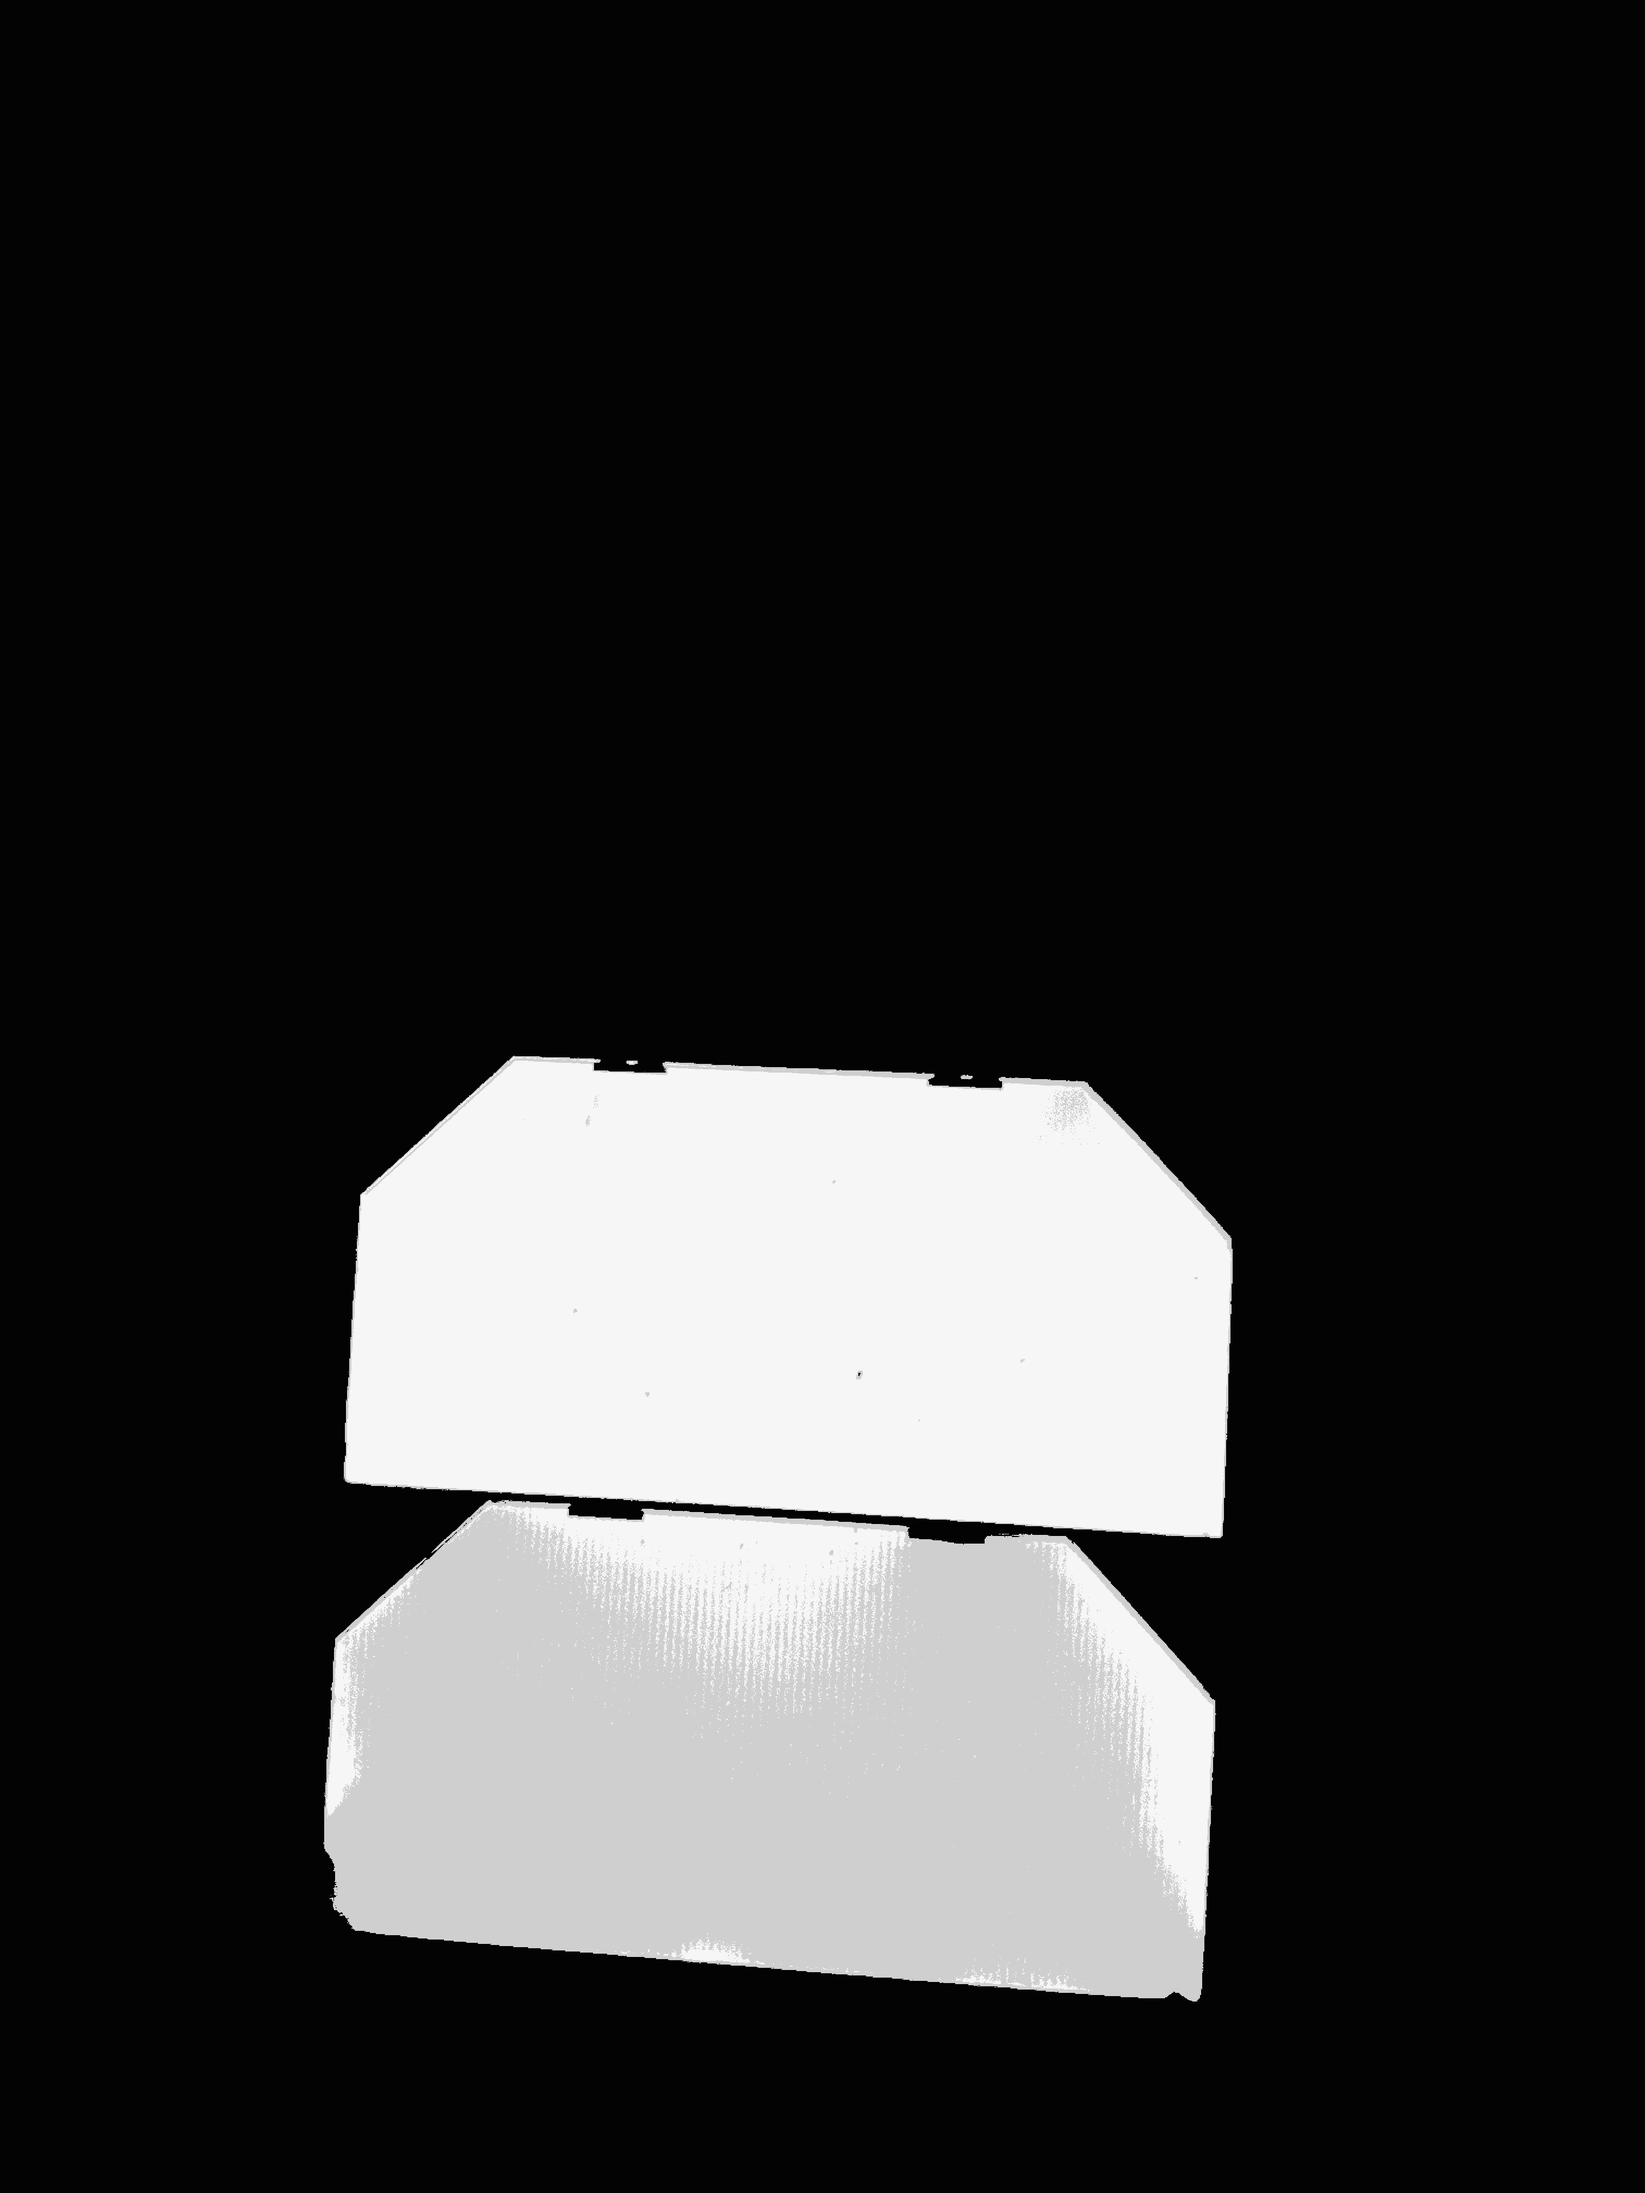
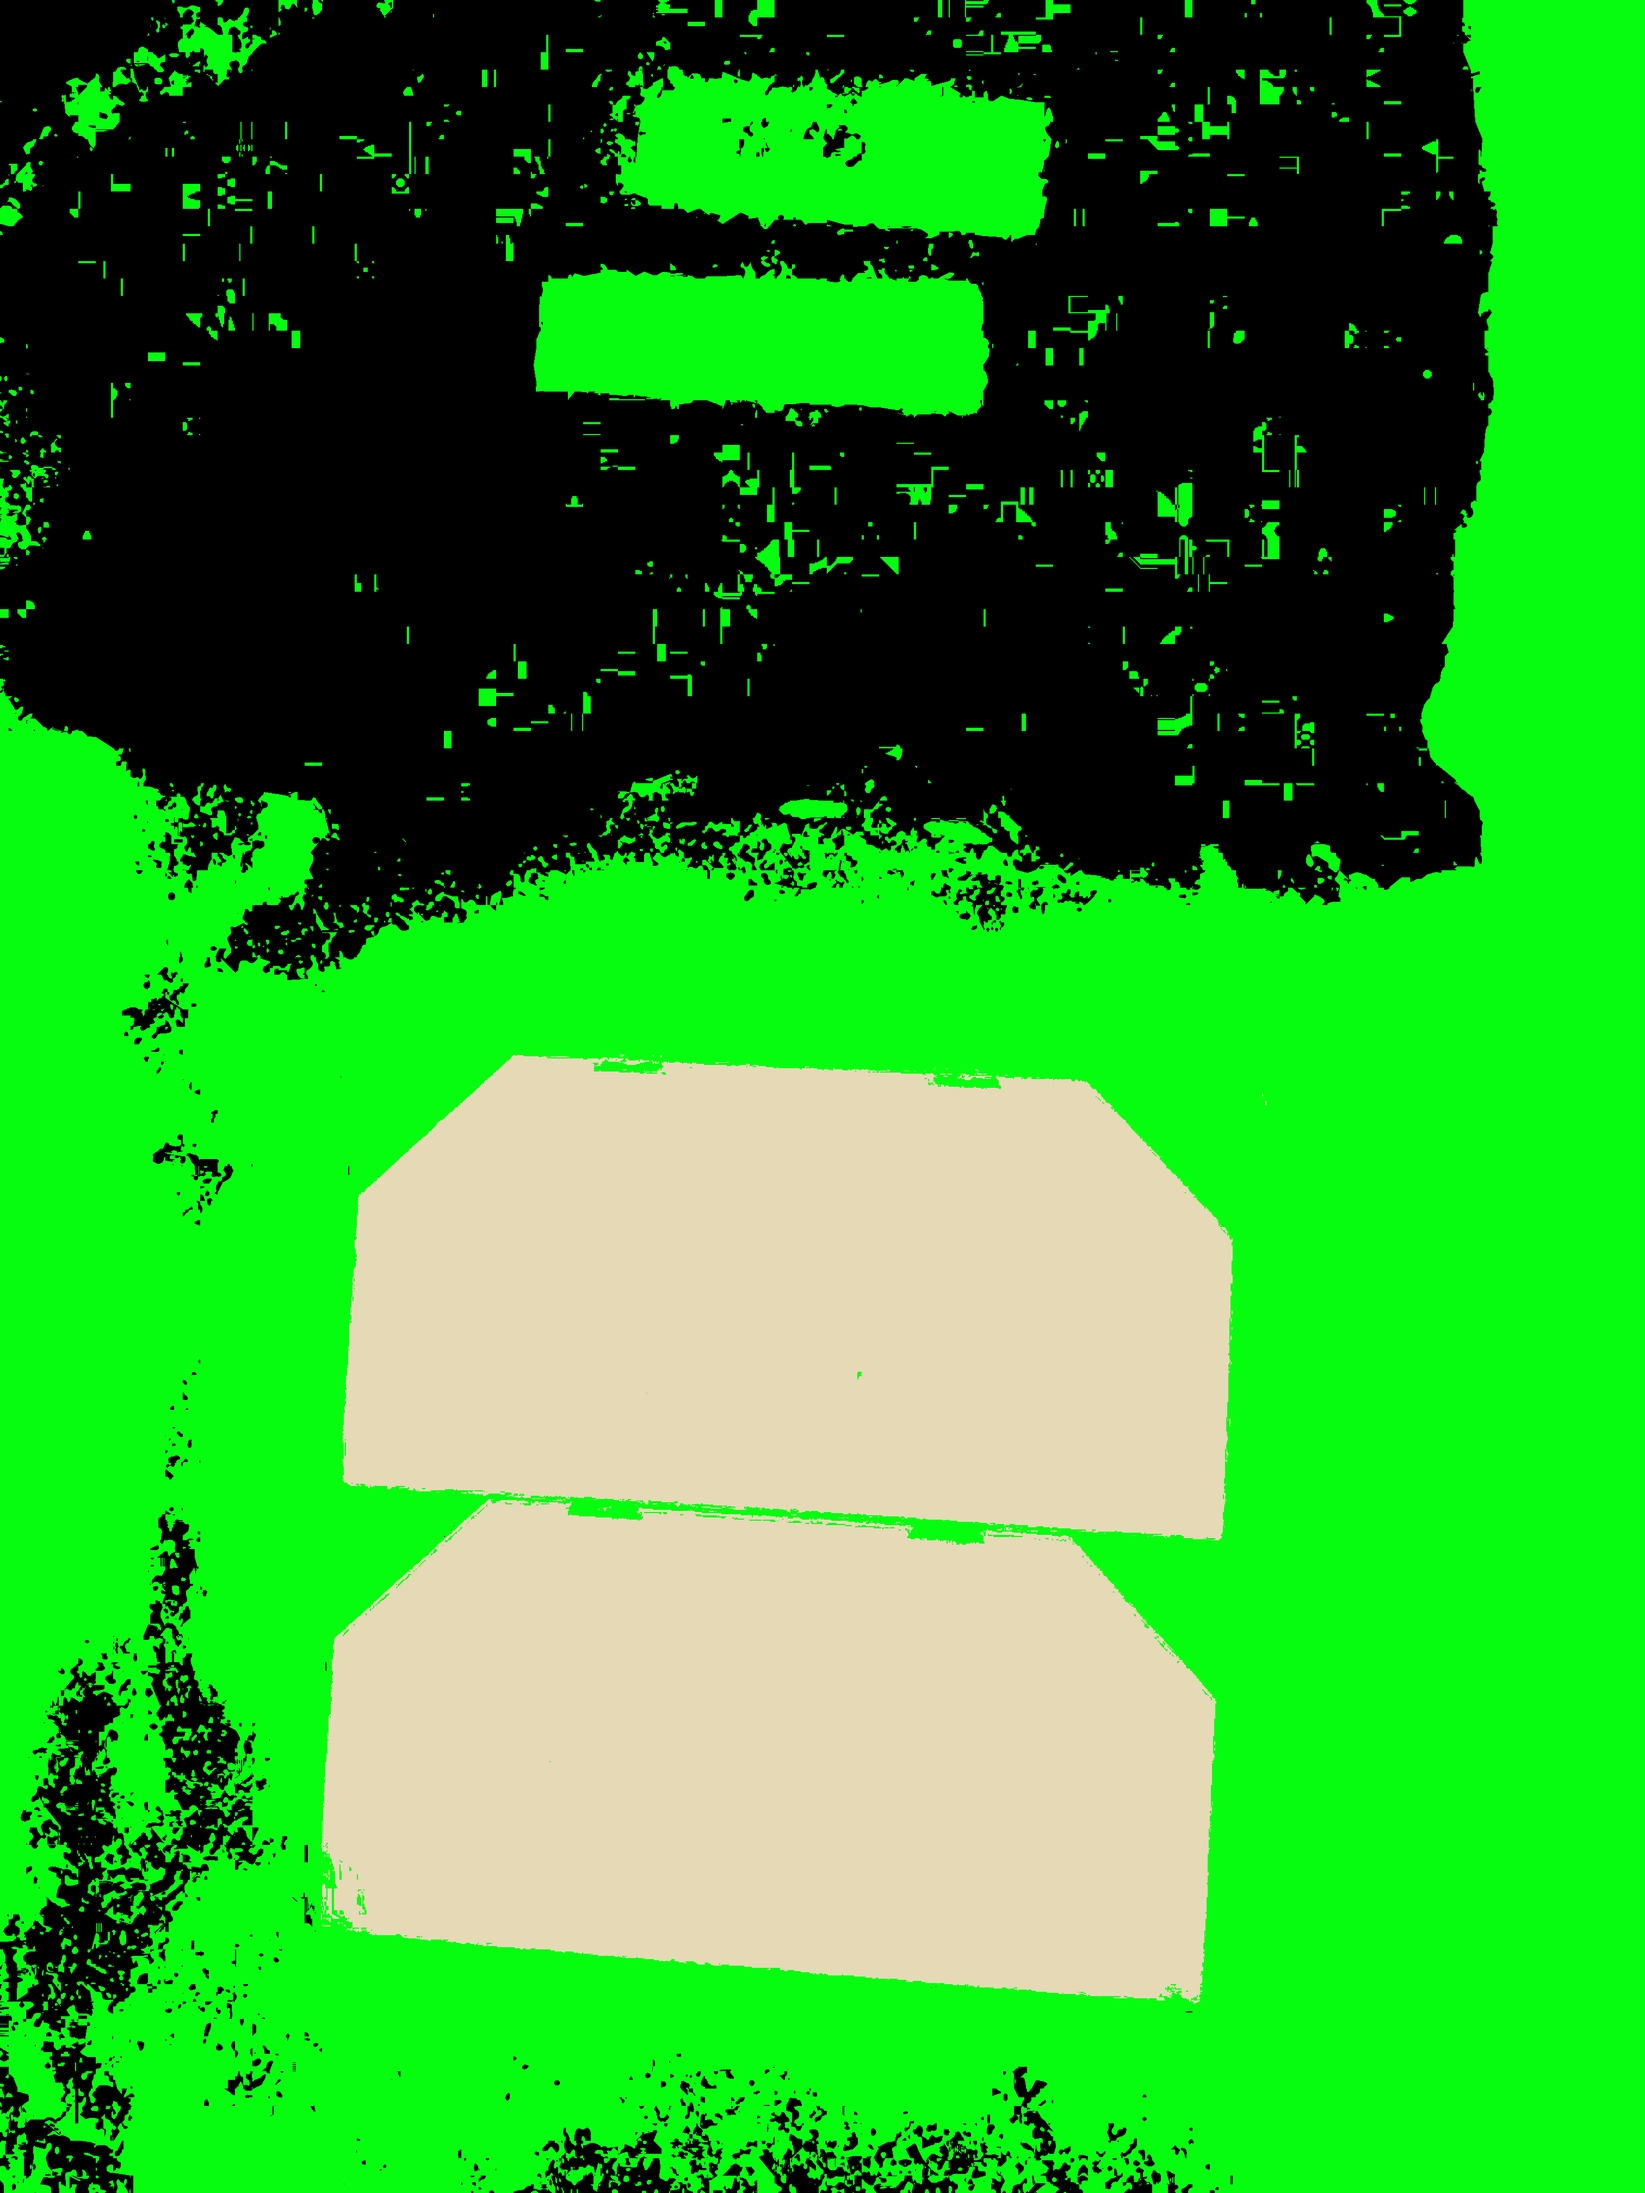
Use different images for 3k means, sp4 doesnt segment fully
Maybe find a better img for sp4 or tweak the k_means crit, alg.

diff --git a/tests/test_kmeans.py b/tests/test_kmeans.py
@@ -78,6 +78,42 @@ def test_twokmeans4():
 
     calc.k_means(out_dir, select=1)
 
+def test_twokmeans5():
+    k = 2
+    img_dir = Path.cwd() / "data" / "processed" / "sp2" / "IMG_6599.png"
+    out_dir = Path.cwd() / "data" / "output" / "k_means"
+    img = ELMImage(img_dir)
+    calc = k_means_calc(k, img)
+
+    calc.k_means(out_dir, select=1)
+
+def test_twokmeans6():
+    k = 2
+    img_dir = Path.cwd() / "data" / "processed" / "sp1" / "IMG_6596.png"
+    out_dir = Path.cwd() / "data" / "output" / "k_means"
+    img = ELMImage(img_dir)
+    calc = k_means_calc(k, img)
+
+    calc.k_means(out_dir, select=1)
+
+def test_twokmeans7():
+    k = 2
+    img_dir = Path.cwd() / "data" / "processed" / "sp3" / "IMG_6626.png"
+    out_dir = Path.cwd() / "data" / "output" / "k_means"
+    img = ELMImage(img_dir)
+    calc = k_means_calc(k, img)
+
+    calc.k_means(out_dir, select=1)
+
+def test_twokmeans8():
+    k = 2
+    img_dir = Path.cwd() / "data" / "processed" / "sp4" / "IMG_6639.png"
+    out_dir = Path.cwd() / "data" / "output" / "k_means"
+    img = ELMImage(img_dir)
+    calc = k_means_calc(k, img)
+
+    calc.k_means(out_dir, select=1)
+
 def test_threekmeans1():
     k = 3
     img_dir = Path.cwd() / "data" / "processed" / "sp1" / "IMG_6613.png"
@@ -95,6 +131,7 @@ def test_threekmeans2():
     calc = k_means_calc(k, img)
 
     calc.k_means(out_dir, select=0)
+    
 
 def test_threekmeans3():
     k = 3
@@ -114,6 +151,41 @@ def test_threekmeans4():
 
     calc.k_means(out_dir, select=0)
 
+def test_threekmeans5():
+    k = 3
+    img_dir = Path.cwd() / "data" / "processed" / "sp2" / "IMG_6599.png"
+    out_dir = Path.cwd() / "data" / "output" / "k_means"
+    img = ELMImage(img_dir)
+    calc = k_means_calc(k, img)
+
+    calc.k_means(out_dir, select=0)
+
+def test_threekmeans6():
+    k = 3
+    img_dir = Path.cwd() / "data" / "processed" / "sp1" / "IMG_6596.png"
+    out_dir = Path.cwd() / "data" / "output" / "k_means"
+    img = ELMImage(img_dir)
+    calc = k_means_calc(k, img)
+
+    calc.k_means(out_dir, select=0)
+
+def test_threekmeans7():
+    k = 3
+    img_dir = Path.cwd() / "data" / "processed" / "sp3" / "IMG_6626.png"
+    out_dir = Path.cwd() / "data" / "output" / "k_means"
+    img = ELMImage(img_dir)
+    calc = k_means_calc(k, img)
+
+    calc.k_means(out_dir, select=0)
+
+def test_threekmeans8():
+    k = 3
+    img_dir = Path.cwd() / "data" / "processed" / "sp4" / "IMG_6639.png"
+    out_dir = Path.cwd() / "data" / "output" / "k_means"
+    img = ELMImage(img_dir)
+    calc = k_means_calc(k, img)
+
+    calc.k_means(out_dir, select=0)
 
 
 

diff --git a/src/core/kmeans.py b/src/core/kmeans.py
@@ -27,15 +27,15 @@ class k_means_calc:
         # select = 0 is bgr, select = 1 is hsv
         if select == 0:
             # since for hsv only use k-means for the value channel (-1,1) reshape to (N, 1)
-            pixel_vals = self.img.hsv_mono_arr("v").reshape(-1, 1)
+            pixel_vals = self.img.hsv_arr.reshape((-1,3))
+            criteria = (cv2.TERM_CRITERIA_EPS + cv2.TERM_CRITERIA_MAX_ITER, 10, 1.0)
         elif select == 1:
             pixel_vals = self.img.bgr_arr.reshape((-1,3))
+            criteria = (cv2.TERM_CRITERIA_EPS + cv2.TERM_CRITERIA_MAX_ITER, 100, 0.95)
             
         
         pixel_vals = np.float32(pixel_vals)
 
-        # max 100 iterations of k_means with accuraccy 85%
-        criteria = (cv2.TERM_CRITERIA_EPS + cv2.TERM_CRITERIA_MAX_ITER, 100, 0.95)
 
         retval, labels, centers = cv2.kmeans(pixel_vals, self.k, None, criteria, 10, cv2.KMEANS_RANDOM_CENTERS)
 
@@ -47,7 +47,7 @@ class k_means_calc:
         # grayscale the segmented image
         gray_segmented_image = None
         if select == 0:
-            segmented_image = segmented_data.reshape(self.img.hsv_mono_arr("v").shape)
+            segmented_image = segmented_data.reshape(self.img.hsv_arr.shape)
             gray_segmented_image = segmented_image
         elif select == 1:
             segmented_image = segmented_data.reshape(self.img.bgr_arr.shape)
